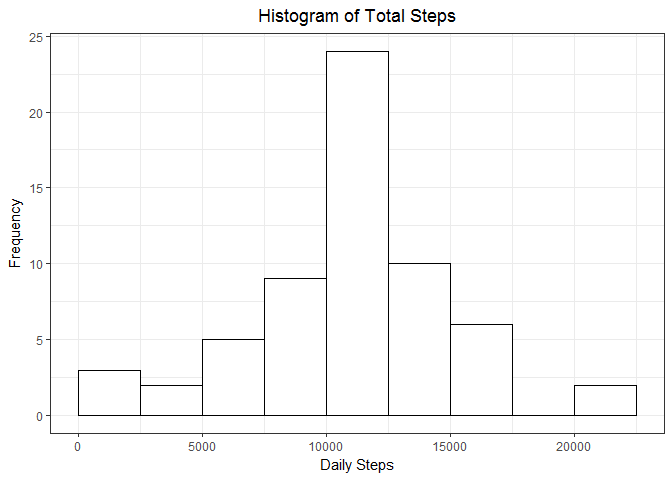
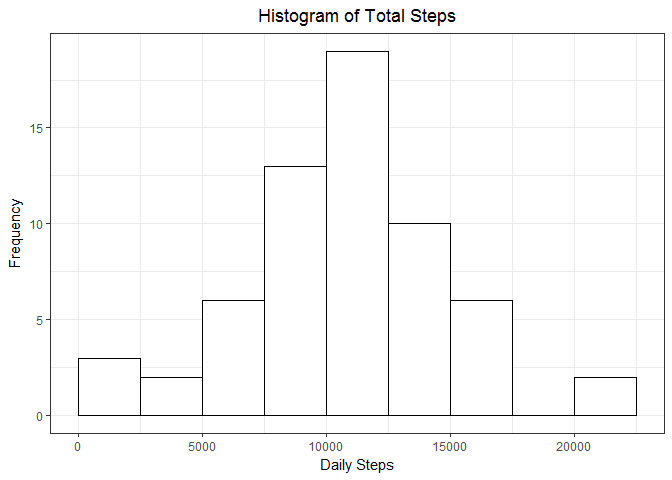
add

diff --git a/PA1_template.html b/PA1_template.html
@@ -125,10 +125,9 @@ $(document).ready(function () {
 <div id="r-markdown" class="section level2">
 <h2>R Markdown</h2>
 <p>This is an R Markdown document for the Reproducible Research Project 1. This markdown reads the activity.csv file and performs some exploratory analysis.</p>
-<p>The libraries used for this project: tidyverse, lubridate, readr and mice</p>
+<p>The libraries used for this project: <code>tidyverse</code> and <code>mice</code>. <code>tidyverse</code> contains many of the packages we need like <code>dplyr</code>, <code>ggplot2</code>, <code>lubridate</code> and <code>readr</code>.</p>
 <pre class="r"><code>if(!require(tidyverse)) {install.packages('tidyverse'); require(tidyverse)}
 if(!require(lubridate)) {install.packages('lubridate'); require(lubridate)}
-if(!require(readr)) {install.packages('readr'); require(readr)}
 if(!require(mice)) {install.packages('mice'); require(mice)}</code></pre>
 <p>We’ll set the working directory</p>
 <pre class="r"><code>setwd('~/Coursera/Reproducible Research/Project 1')</code></pre>
@@ -286,7 +285,7 @@ head(df_7)</code></pre>
 <pre><code>## # A tibble: 6 x 2
 ##         date total_steps
 ##       &lt;date&gt;       &lt;dbl&gt;
-## 1 2012-10-01       11836
+## 1 2012-10-01        8076
 ## 2 2012-10-02         126
 ## 3 2012-10-03       11352
 ## 4 2012-10-04       12116
@@ -298,7 +297,7 @@ head(df_7)</code></pre>
   theme_bw() + 
   theme(plot.title = element_text(hjust = 0.5))
 df_7_plot  </code></pre>
[2 lines of base64/hex data omitted]
 </div>
 <div id="panel-plot-comparing-the-average-number-of-steps-taken-per-5-minute-interval-across-weekdays-and-weekends" class="section level5">
 <h5>8) Panel plot comparing the average number of steps taken per 5-minute interval across weekdays and weekends</h5>
@@ -333,7 +332,6 @@ df_8_plot</code></pre>
 <pre class="r"><code># load tidyverse and readr packages
 if(!require(tidyverse)) {install.packages('tidyverse'); require(tidyverse)}
 if(!require(lubridate)) {install.packages('lubridate'); require(lubridate)}
-if(!require(readr)) {install.packages('readr'); require(readr)}
 if(!require(mice)) {install.packages('mice'); require(mice)}
 
 # set working directory
@@ -469,7 +467,7 @@ df_7_plot &lt;- ggplot(df_7, aes(total_steps)) +
   theme_bw() + 
   theme(plot.title = element_text(hjust = 0.5))
 df_7_plot  </code></pre>
[2 lines of base64/hex data omitted]
 <pre class="r"><code># 8) Panel plot comparing the average number of steps taken per 5-minute 
 # interval across weekdays and weekends
 

diff --git a/PA1_template.md b/PA1_template.md
@@ -12,12 +12,11 @@ output:
 This is an R Markdown document for the Reproducible Research Project 1. This markdown reads the activity.csv file and performs some exploratory analysis.
 
 
-The libraries used for this project: tidyverse, lubridate, readr and mice
+The libraries used for this project: `tidyverse` and `mice`. `tidyverse` contains many of the packages we need like `dplyr`, `ggplot2`, `lubridate` and `readr`.
 
 ```r
 if(!require(tidyverse)) {install.packages('tidyverse'); require(tidyverse)}
 if(!require(lubridate)) {install.packages('lubridate'); require(lubridate)}
-if(!require(readr)) {install.packages('readr'); require(readr)}
 if(!require(mice)) {install.packages('mice'); require(mice)}
 ```
 
@@ -246,7 +245,7 @@ head(df_7)
 ## # A tibble: 6 x 2
 ##         date total_steps
 ##       <date>       <dbl>
-## 1 2012-10-01       11836
+## 1 2012-10-01        8076
 ## 2 2012-10-02         126
 ## 3 2012-10-03       11352
 ## 4 2012-10-04       12116
@@ -312,7 +311,6 @@ df_8_plot
 # load tidyverse and readr packages
 if(!require(tidyverse)) {install.packages('tidyverse'); require(tidyverse)}
 if(!require(lubridate)) {install.packages('lubridate'); require(lubridate)}
-if(!require(readr)) {install.packages('readr'); require(readr)}
 if(!require(mice)) {install.packages('mice'); require(mice)}
 
 # set working directory
